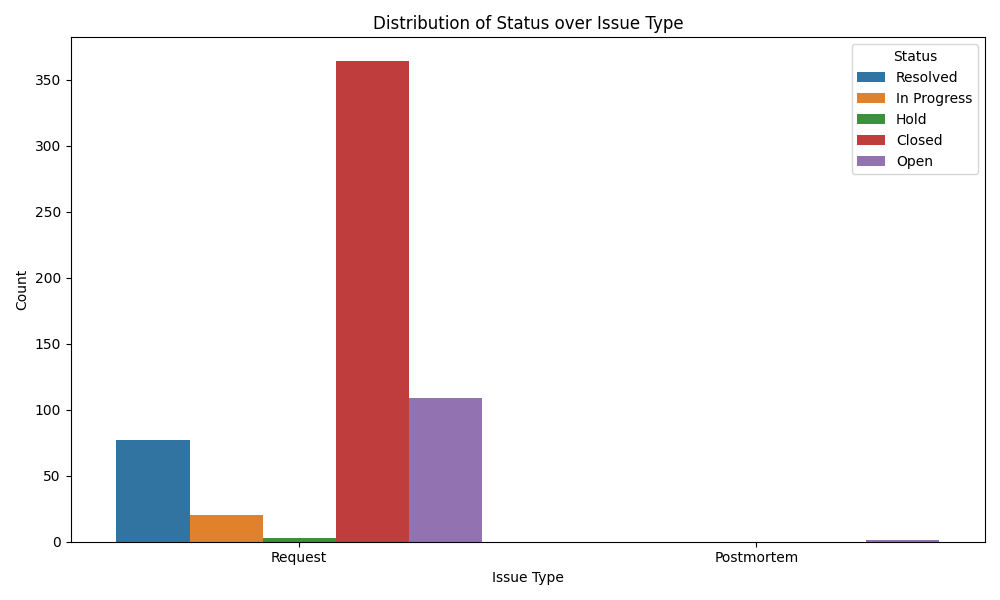
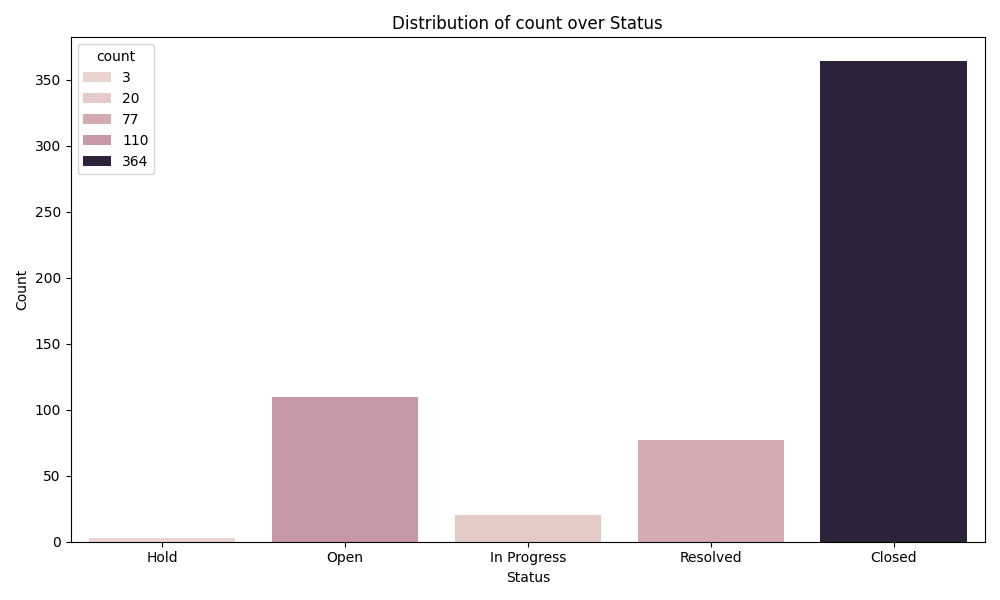
Updated report generation to display as separate widget

Changed region(s): [[0.093, 0.06, 0.992, 0.99], [0.062, 0.09, 0.155, 0.3], [0.372, 0.03, 0.682, 0.06]]

diff --git a/reports/combined_report.html b/reports/combined_report.html
@@ -155,7 +155,6 @@
   <thead>
     <tr style="text-align: right;">
       <th></th>
-      <th>Issue Type</th>
       <th>Status</th>
       <th>count</th>
     </tr>
@@ -163,46 +162,35 @@
   <tbody>
     <tr>
       <th>0</th>
-      <td>Request</td>
-      <td>Resolved</td>
-      <td>77</td>
-    </tr>
-    <tr>
-      <th>1</th>
-      <td>Request</td>
-      <td>In Progress</td>
-      <td>20</td>
-    </tr>
-    <tr>
-      <th>2</th>
-      <td>Request</td>
       <td>Hold</td>
       <td>3</td>
     </tr>
     <tr>
+      <th>1</th>
+      <td>Open</td>
+      <td>110</td>
+    </tr>
+    <tr>
+      <th>2</th>
+      <td>In Progress</td>
+      <td>20</td>
+    </tr>
+    <tr>
       <th>3</th>
-      <td>Request</td>
-      <td>Closed</td>
-      <td>364</td>
+      <td>Resolved</td>
+      <td>77</td>
     </tr>
     <tr>
       <th>4</th>
-      <td>Request</td>
-      <td>Open</td>
-      <td>109</td>
-    </tr>
-    <tr>
-      <th>5</th>
-      <td>Postmortem</td>
-      <td>Open</td>
-      <td>1</td>
+      <td>Closed</td>
+      <td>364</td>
     </tr>
   </tbody>
 </table>
     </div>
     <div id="chart" class="tabcontent">
         <h2>Chart</h2>
[2 lines of base64/hex data omitted]
     </div>
     <div id="summary-report" class="tabcontent">
         <h2>Summary Report</h2>
@@ -212,13 +200,13 @@
 Summary statistics for the dataset:
 ```
             count
-count    6.000000
-mean    95.666667
-std    138.422060
-min      1.000000
-25%      7.250000
-50%     48.500000
-75%    101.000000
+count    5.000000
+mean   114.800000
+std    145.807064
+min      3.000000
+25%     20.000000
+50%     77.000000
+75%    110.000000
 max    364.000000
 ```
 

diff --git a/reports/report.html b/reports/report.html
@@ -2,7 +2,6 @@
   <thead>
     <tr style="text-align: right;">
       <th></th>
-      <th>Issue Type</th>
       <th>Status</th>
       <th>count</th>
     </tr>
@@ -10,39 +9,28 @@
   <tbody>
     <tr>
       <th>0</th>
-      <td>Request</td>
-      <td>Resolved</td>
-      <td>77</td>
-    </tr>
-    <tr>
-      <th>1</th>
-      <td>Request</td>
-      <td>In Progress</td>
-      <td>20</td>
-    </tr>
-    <tr>
-      <th>2</th>
-      <td>Request</td>
       <td>Hold</td>
       <td>3</td>
     </tr>
     <tr>
+      <th>1</th>
+      <td>Open</td>
+      <td>110</td>
+    </tr>
+    <tr>
+      <th>2</th>
+      <td>In Progress</td>
+      <td>20</td>
+    </tr>
+    <tr>
       <th>3</th>
-      <td>Request</td>
-      <td>Closed</td>
-      <td>364</td>
+      <td>Resolved</td>
+      <td>77</td>
     </tr>
     <tr>
       <th>4</th>
-      <td>Request</td>
-      <td>Open</td>
-      <td>109</td>
-    </tr>
-    <tr>
-      <th>5</th>
-      <td>Postmortem</td>
-      <td>Open</td>
-      <td>1</td>
+      <td>Closed</td>
+      <td>364</td>
     </tr>
   </tbody>
 </table>

diff --git a/reports/temp.html b/reports/temp.html
@@ -2,7 +2,6 @@
   <thead>
     <tr style="text-align: right;">
       <th></th>
-      <th>Issue Type</th>
       <th>Status</th>
       <th>count</th>
     </tr>
@@ -10,39 +9,28 @@
   <tbody>
     <tr>
       <th>0</th>
-      <td>Request</td>
-      <td>Resolved</td>
-      <td>77</td>
-    </tr>
-    <tr>
-      <th>1</th>
-      <td>Request</td>
-      <td>In Progress</td>
-      <td>20</td>
-    </tr>
-    <tr>
-      <th>2</th>
-      <td>Request</td>
       <td>Hold</td>
       <td>3</td>
     </tr>
     <tr>
+      <th>1</th>
+      <td>Open</td>
+      <td>110</td>
+    </tr>
+    <tr>
+      <th>2</th>
+      <td>In Progress</td>
+      <td>20</td>
+    </tr>
+    <tr>
       <th>3</th>
-      <td>Request</td>
-      <td>Closed</td>
-      <td>364</td>
+      <td>Resolved</td>
+      <td>77</td>
     </tr>
     <tr>
       <th>4</th>
-      <td>Request</td>
-      <td>Open</td>
-      <td>109</td>
-    </tr>
-    <tr>
-      <th>5</th>
-      <td>Postmortem</td>
-      <td>Open</td>
-      <td>1</td>
+      <td>Closed</td>
+      <td>364</td>
     </tr>
   </tbody>
 </table>

diff --git a/app_report.py b/app_report.py
@@ -1,0 +1,160 @@
+# load environment variables
+from dotenv import load_dotenv
+_ = load_dotenv()
+
+import streamlit as st
+import streamlit.components.v1 as components
+from graphs.build_graph import build_supervisor_graph
+
+
+# initiate the graph_build
+print("Building the graph...")
+graph = build_supervisor_graph()
+print("Graph has been built.")
+
+# Streamlit UI components
+st.title("DevOpsAssist")
+st.sidebar.image('images/Finastra-logo.jpg', use_container_width=True)
+
+# --- Sidebar: Report generation query and button ---
+st.sidebar.markdown("## Generate Report")
+report_query = st.sidebar.text_input("Report Query", key="report_query")
+generate_report_clicked = st.sidebar.button("Generate Report")
+
+# --- Main UI: General chat input and response ---
+st.markdown("## General Chat")
+query = st.text_input("Type your query here", key="main_query")
+
+col1, col2 = st.columns([2, 5])
+# When query is submitted (Enter pressed)
+if query:
+    with col2:
+        st.markdown(
+            f"<div style='text-align: right; font-style: italic;'>{query}</div>",
+            unsafe_allow_html=True,
+        )
+    # Generate response (can still show spinner)
+    thread = {"configurable": {"thread_id": "1"}}
+
+    results = []
+    # Create a temporary placeholder for interim updates
+    placeholder = st.empty()
+
+    with st.spinner("Processing..."):
+        for output in graph.stream({
+                'user_input': query,
+                'supervisor_decision': '',
+                'tool_calls': '',
+                'agent_tool_retries': 0,
+                'agent_max_tool_retries': 3,
+                'postgres_query': '',
+                'postgres_agent_response': '',
+                'vector_db_agent_response': '',
+                'report_generation_requested': '',
+                'report_generation_response': '',
+                'final_response': '',
+                'memory_chain': []
+            }, thread):
+            
+            # Optionally print something useful during the stream
+            current_step = output.keys()
+            placeholder.markdown(f"Running step: `{list(current_step)[0]}`")  # Or any useful info
+            
+            results.append(output)
+
+    # Clear the placeholder after processing
+    placeholder.empty()
+
+    response = results[-1]['handle_response']['final_response']
+
+    st.markdown("\n")
+    st.markdown("\n")
+
+    col3, col4 = st.columns([5, 1])
+    with col3:
+        st.markdown(
+            f"<div style='text-align: left; font-style: italic;'>{response}</div>",
+            unsafe_allow_html=True,
+        )
+
+    st.markdown("\n")
+    st.markdown("\n")
+
+    with st.expander("Show Full Model Process", expanded=False):
+        st.write("\n")
+        st.write("\n")
+        st.write(results[-1]['handle_response']['memory_chain'])
+
+    if results[-1]['handle_response']['report_generation_response'] == "Report Generated":
+        with open("reports/combined_report.html", "r") as file:
+            report_content = file.read()
+            components.html(
+                report_content,
+                height=800,
+                scrolling=True,
+            )
+        
+        # Add a download button for the report
+        st.download_button(
+            label="Download Report",
+            data=report_content,
+            file_name="report.html",
+            mime="text/html"
+        )
+    # Save query and response to session_state
+    if "chat_history" not in st.session_state:
+        st.session_state.chat_history = []
+    st.session_state.chat_history.append({
+        "query": query,
+        "response": response,
+        "raw": results[-1]['handle_response']['memory_chain']
+    })
+
+# --- Report Generation Section (Sidebar Button) ---
+if generate_report_clicked and report_query:
+    st.session_state['report_generation_result'] = None  # Clear previous result
+    with st.spinner("Generating report..."):
+        thread = {"configurable": {"thread_id": "report"}}
+        report_results = []
+        report_placeholder = st.empty()
+        for output in graph.stream({
+                'user_input': report_query,
+                'supervisor_decision': '',
+                'tool_calls': '',
+                'agent_tool_retries': 0,
+                'agent_max_tool_retries': 3,
+                'postgres_query': '',
+                'postgres_agent_response': '',
+                'vector_db_agent_response': '',
+                'report_generation_requested': '',
+                'report_generation_response': '',
+                'final_response': '',
+                'memory_chain': []
+            }, thread):
+            current_step = output.keys()
+            report_placeholder.markdown(f"Running step: `{list(current_step)[0]}`")
+            report_results.append(output)
+        report_placeholder.empty()
+
+        report_response = report_results[-1]['handle_response']['final_response']
+
+        st.markdown("### Report Generation Result")
+        st.markdown(f"<div style='font-style: italic;'>{report_response}</div>", unsafe_allow_html=True)
+
+        with st.expander("Show Full Model Process (Report Generation)", expanded=False):
+            st.write(report_results[-1]['handle_response']['memory_chain'])
+
+        if report_results[-1]['handle_response']['report_generation_response'] == "Report Generated":
+            with open("reports/combined_report.html", "r") as file:
+                report_content = file.read()
+                components.html(
+                    report_content,
+                    height=800,
+                    scrolling=True,
+                )
+            st.download_button(
+                label="Download Report",
+                data=report_content,
+                file_name="report.html",
+                mime="text/html"
+            )
